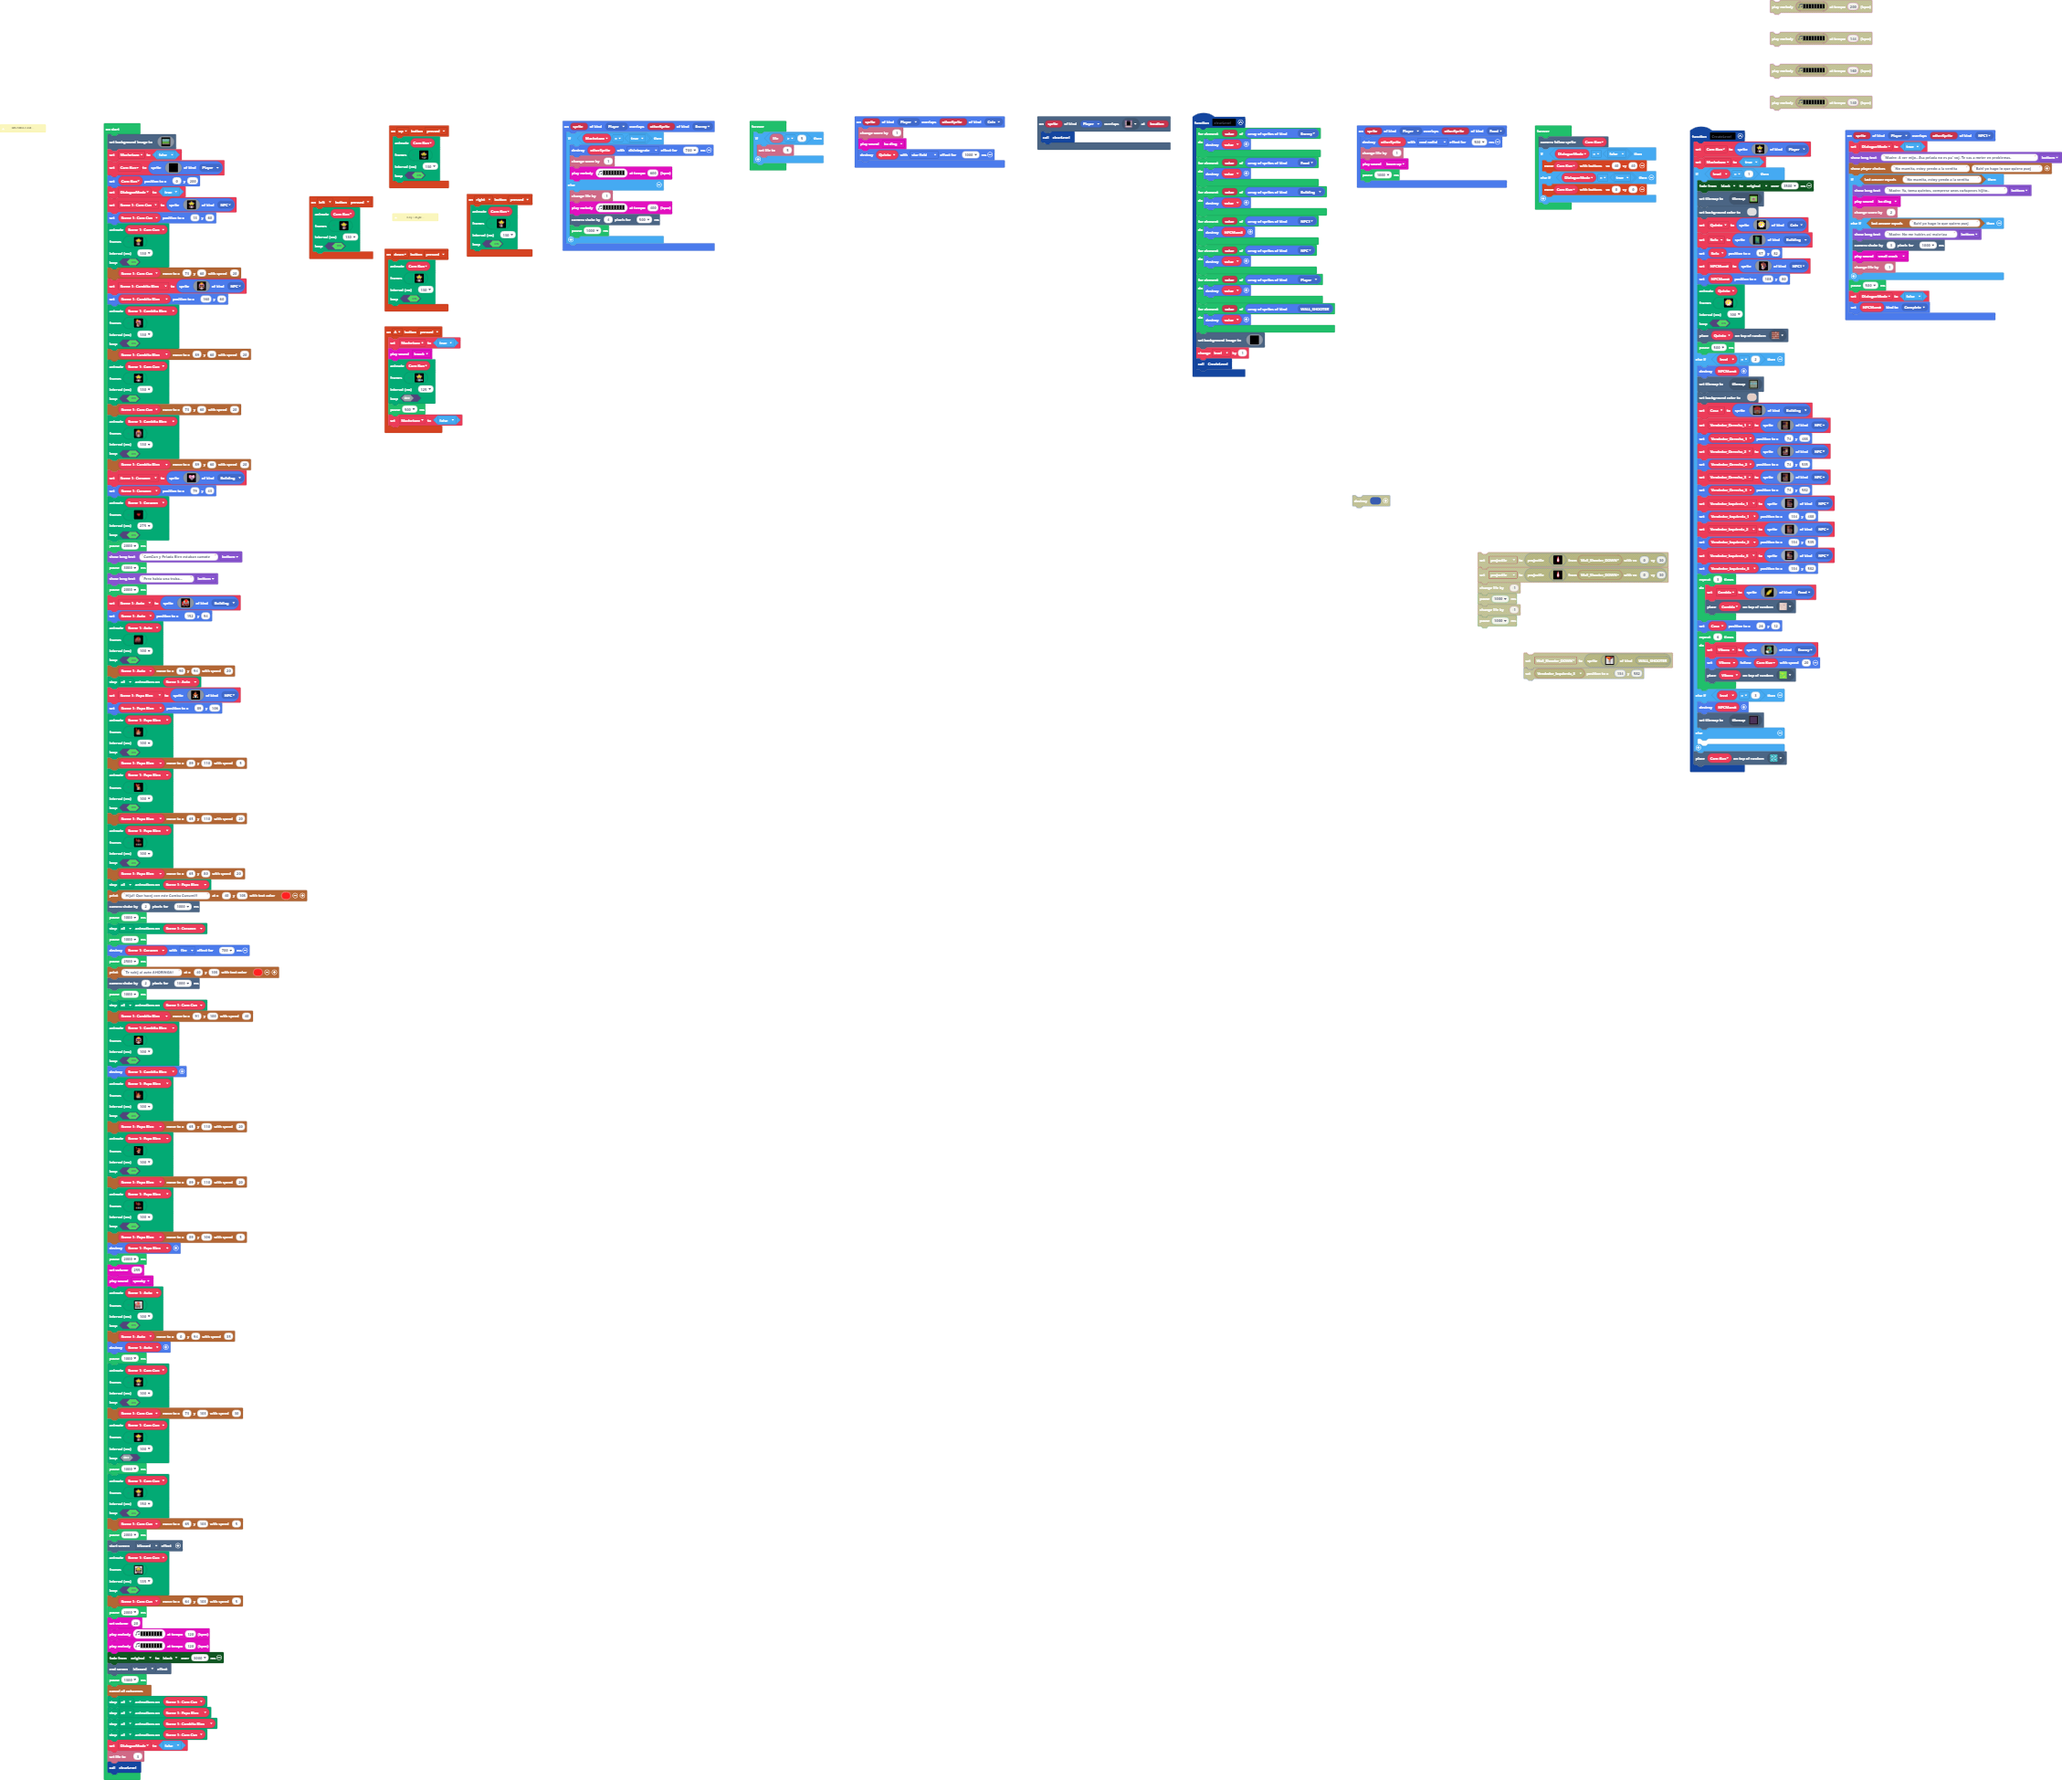
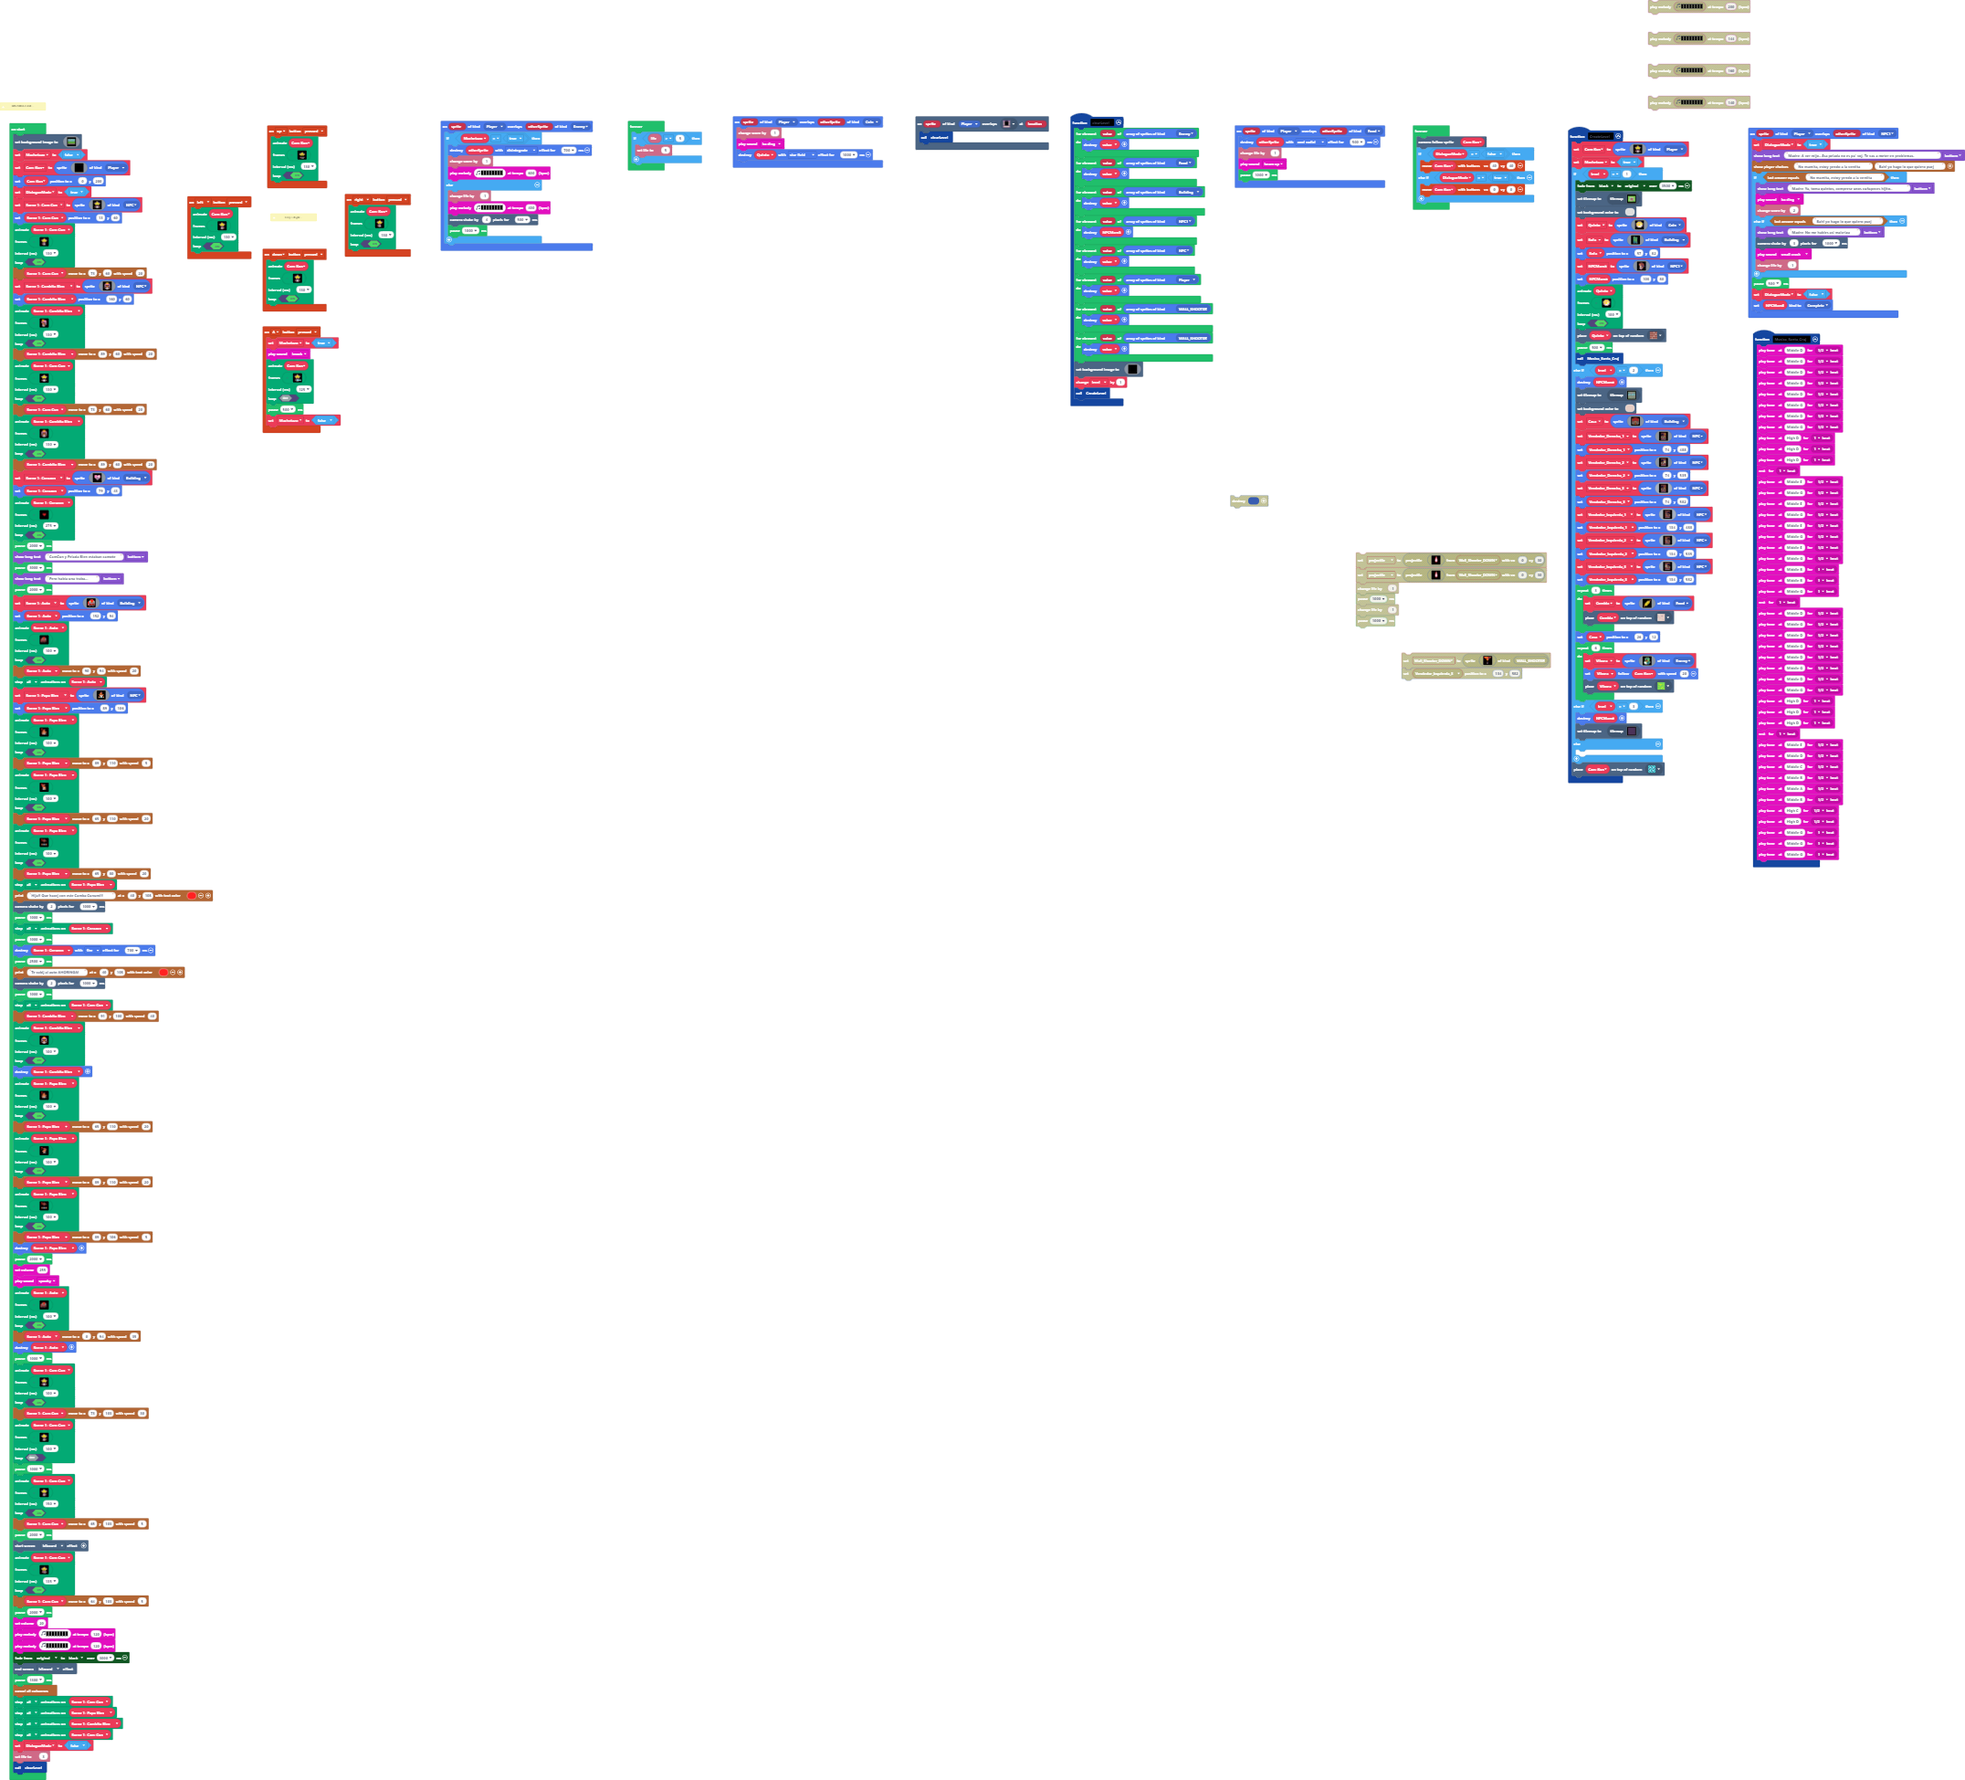
Update main.blocks, main.ts

Changed region(s): [[0.0, 0.0, 1.0, 1.0], [0.6227, 0.2771, 0.6849, 0.3079]]

diff --git a/main.ts b/main.ts
@@ -12,19 +12,6 @@ namespace SpriteKind {
     export const River = SpriteKind.create()
     export const WALL_SHOOTER = SpriteKind.create()
 }
-/**
- * HISTORIA CAM-KUN
- * 
- * INTRO
- * 
- * Cam-Kun y Cambita Bien se enamoran, besos. Amor prohibido.
- * 
- * Aparece Papá Bien desaprueba a Cam-Kun, señala que nunca sera como Gomelo, que no se acerque a su hija. Se lleva a Bien.
- * 
- * NIVEL 1 - Inicio de la aventura en Casa de Cam-Kun
- * 
- * Dialogo con Mama-Kun.
- */
 controller.up.onEvent(ControllerButtonEvent.Pressed, function () {
     animation.runImageAnimation(
     CamKun,
@@ -518,6 +505,7 @@ function CreateLevel () {
         )
         tiles.placeOnRandomTile(Quinto, assets.tile`myTile1`)
         pause(500)
+        Musica_Santa_Cruj()
     } else if (level == 2) {
         NPCMama.destroy()
         tiles.setCurrentTilemap(tilemap`El Pirai`)
@@ -915,6 +903,9 @@ function clearLevel () {
     for (let value of sprites.allOfKind(SpriteKind.WALL_SHOOTER)) {
         value.destroy()
     }
+    for (let value of sprites.allOfKind(SpriteKind.WALL_SHOOTER)) {
+        value.destroy()
+    }
     scene.setBackgroundImage(img`
         ................................................................................................................................................................
         ................................................................................................................................................................
@@ -1040,6 +1031,55 @@ function clearLevel () {
     level += 1
     CreateLevel()
 }
+function Musica_Santa_Cruj () {
+    music.playTone(294, music.beat(BeatFraction.Half))
+    music.playTone(392, music.beat(BeatFraction.Half))
+    music.playTone(294, music.beat(BeatFraction.Half))
+    music.playTone(392, music.beat(BeatFraction.Half))
+    music.playTone(294, music.beat(BeatFraction.Half))
+    music.playTone(392, music.beat(BeatFraction.Half))
+    music.playTone(294, music.beat(BeatFraction.Half))
+    music.playTone(392, music.beat(BeatFraction.Half))
+    music.playTone(587, music.beat(BeatFraction.Whole))
+    music.playTone(587, music.beat(BeatFraction.Whole))
+    music.playTone(587, music.beat(BeatFraction.Whole))
+    music.rest(music.beat(BeatFraction.Whole))
+    music.playTone(330, music.beat(BeatFraction.Half))
+    music.playTone(392, music.beat(BeatFraction.Half))
+    music.playTone(330, music.beat(BeatFraction.Half))
+    music.playTone(392, music.beat(BeatFraction.Half))
+    music.playTone(330, music.beat(BeatFraction.Half))
+    music.playTone(392, music.beat(BeatFraction.Half))
+    music.playTone(330, music.beat(BeatFraction.Half))
+    music.playTone(392, music.beat(BeatFraction.Half))
+    music.playTone(494, music.beat(BeatFraction.Whole))
+    music.playTone(494, music.beat(BeatFraction.Whole))
+    music.playTone(392, music.beat(BeatFraction.Whole))
+    music.rest(music.beat(BeatFraction.Whole))
+    music.playTone(294, music.beat(BeatFraction.Half))
+    music.playTone(392, music.beat(BeatFraction.Half))
+    music.playTone(294, music.beat(BeatFraction.Half))
+    music.playTone(392, music.beat(BeatFraction.Half))
+    music.playTone(294, music.beat(BeatFraction.Half))
+    music.playTone(392, music.beat(BeatFraction.Half))
+    music.playTone(294, music.beat(BeatFraction.Half))
+    music.playTone(392, music.beat(BeatFraction.Half))
+    music.playTone(587, music.beat(BeatFraction.Whole))
+    music.playTone(587, music.beat(BeatFraction.Whole))
+    music.playTone(587, music.beat(BeatFraction.Whole))
+    music.rest(music.beat(BeatFraction.Whole))
+    music.playTone(330, music.beat(BeatFraction.Half))
+    music.playTone(294, music.beat(BeatFraction.Half))
+    music.playTone(262, music.beat(BeatFraction.Half))
+    music.playTone(494, music.beat(BeatFraction.Half))
+    music.playTone(440, music.beat(BeatFraction.Half))
+    music.playTone(494, music.beat(BeatFraction.Half))
+    music.playTone(523, music.beat(BeatFraction.Half))
+    music.playTone(587, music.beat(BeatFraction.Half))
+    music.playTone(392, music.beat(BeatFraction.Whole))
+    music.playTone(392, music.beat(BeatFraction.Whole))
+    music.playTone(392, music.beat(BeatFraction.Whole))
+}
 sprites.onOverlap(SpriteKind.Player, SpriteKind.Enemy, function (sprite, otherSprite) {
     if (Machetazo == true) {
         otherSprite.destroy(effects.disintegrate, 700)
@@ -1052,6 +1092,19 @@ sprites.onOverlap(SpriteKind.Player, SpriteKind.Enemy, function (sprite, otherSp
         pause(1000)
     }
 })
+/**
+ * HISTORIA CAM-KUN
+ * 
+ * INTRO
+ * 
+ * Cam-Kun y Cambita Bien se enamoran, besos. Amor prohibido.
+ * 
+ * Aparece Papá Bien desaprueba a Cam-Kun, señala que nunca sera como Gomelo, que no se acerque a su hija. Se lleva a Bien.
+ * 
+ * NIVEL 1 - Inicio de la aventura en Casa de Cam-Kun
+ * 
+ * Dialogo con Mama-Kun.
+ */
 let Vibora: Sprite = null
 let Comida: Sprite = null
 let Vendedor_Izquierda_3: Sprite = null
